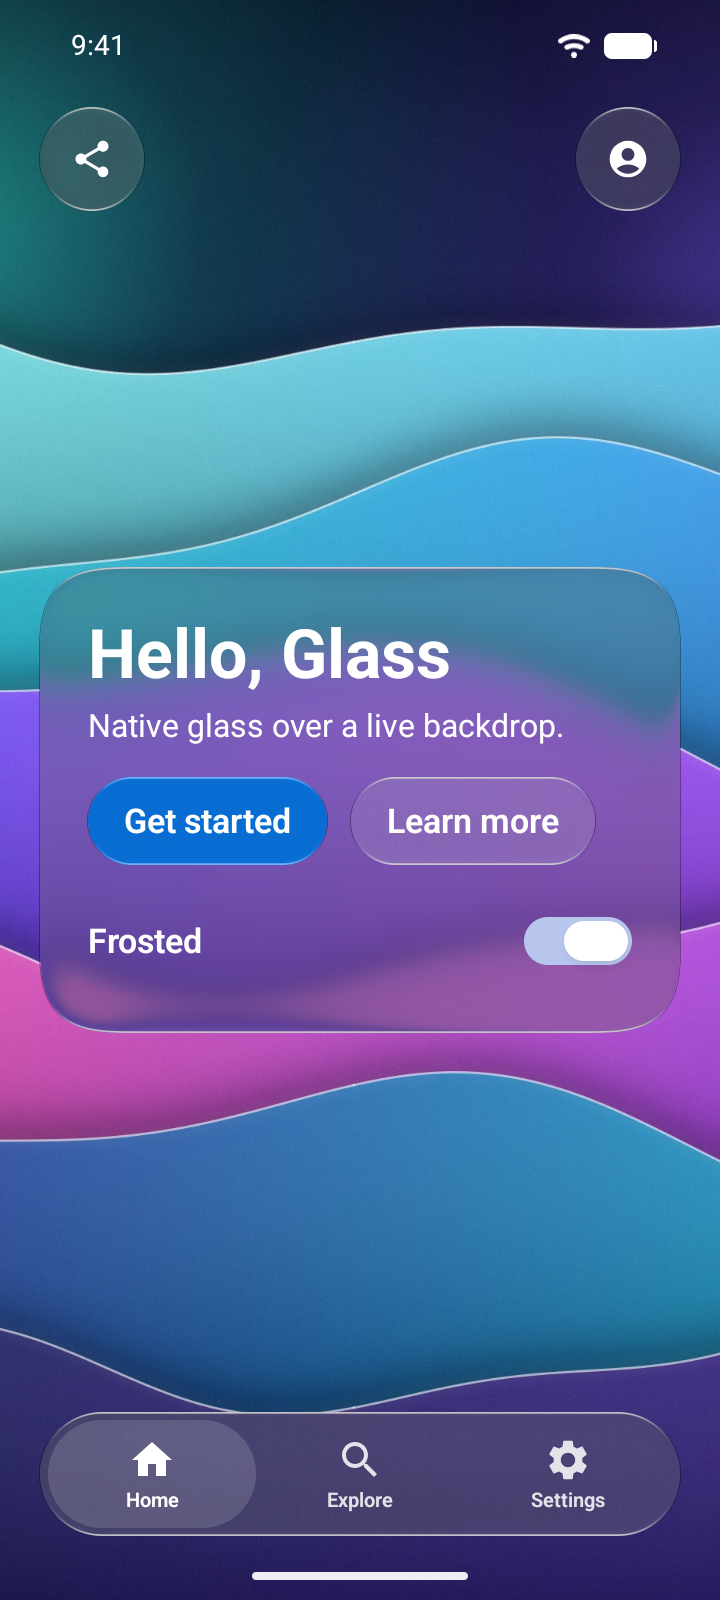
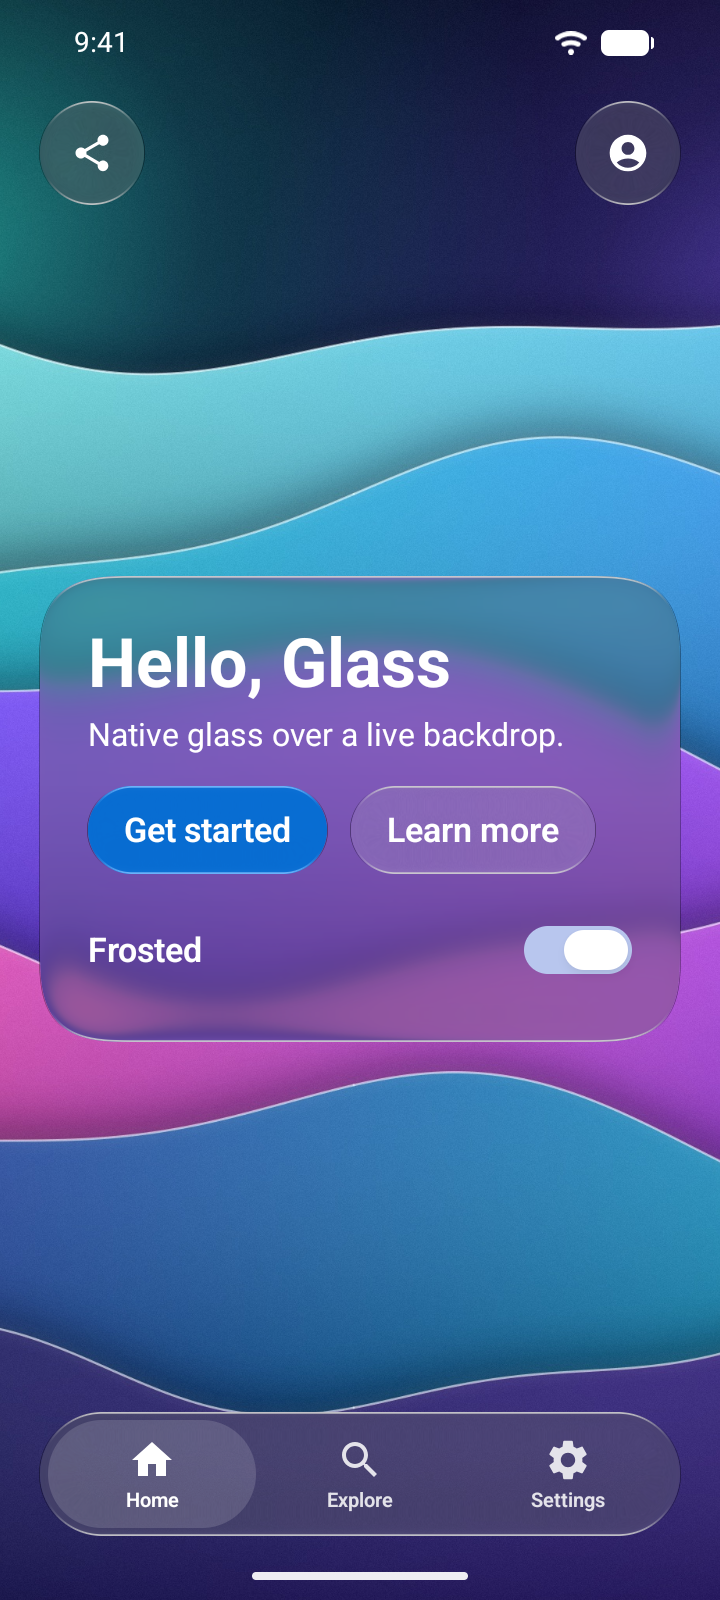
Compose example: the toolbar, the card and the tab bar stack inside the safe area, with the card centered between the bars and scrolling when the space is too short (a phone in landscape, large fonts) instead of running under the tab bar; the README says ANDROID_HOME covers both builds (sdk.dir has 

diff --git a/examples/compose/HelloGlass/app/src/main/kotlin/io/github/rookasrudzianskas/liquidglass/hello/MainActivity.kt b/examples/compose/HelloGlass/app/src/main/kotlin/io/github/rookasrudzianskas/liquidglass/hello/MainActivity.kt
@@ -7,15 +7,17 @@ import androidx.activity.SystemBarStyle
 import androidx.activity.compose.setContent
 import androidx.activity.enableEdgeToEdge
 import androidx.compose.foundation.Image
+import androidx.compose.foundation.rememberScrollState
+import androidx.compose.foundation.verticalScroll
 import androidx.compose.foundation.layout.Arrangement
+import androidx.compose.foundation.layout.Box
 import androidx.compose.foundation.layout.Column
 import androidx.compose.foundation.layout.Row
 import androidx.compose.foundation.layout.WindowInsets
 import androidx.compose.foundation.layout.fillMaxSize
 import androidx.compose.foundation.layout.fillMaxWidth
-import androidx.compose.foundation.layout.navigationBars
 import androidx.compose.foundation.layout.padding
-import androidx.compose.foundation.layout.statusBars
+import androidx.compose.foundation.layout.safeDrawing
 import androidx.compose.foundation.layout.widthIn
 import androidx.compose.foundation.layout.windowInsetsPadding
 import androidx.compose.material.icons.Icons
@@ -95,59 +97,64 @@ fun HelloGlass() {
             )
         }
 
-        // The bars float over the wallpaper's dark top and bottom, so they are dark glass in either theme.
-        GlassToolbar(
-            Modifier
-                .align(Alignment.TopCenter)
-                .windowInsetsPadding(WindowInsets.statusBars)
-                .padding(start = 20.dp, top = 8.dp, end = 20.dp)
-                .fillMaxWidth(),
-            appearance = GlassAppearance.Dark,
-        ) {
-            GlassButton(Icons.Filled.Share, contentDescription = "Share", onClick = { context.startActivity(shareIntent(GUIDE)) })
-            GlassToolbarSpacer()
-            GlassButton(Icons.Filled.AccountCircle, contentDescription = "Profile", onClick = { tab = 2 })
-        }
+        // Toolbar, card and tab bar stack inside the safe area: the card is centered in the space
+        // between the bars and scrolls when that space is too short for it (a phone in landscape,
+        // large font sizes), so it never runs under either bar.
+        Column(Modifier.fillMaxSize().windowInsetsPadding(WindowInsets.safeDrawing)) {
+            // The bars float over the wallpaper's dark top and bottom, so they are dark glass in either theme.
+            GlassToolbar(
+                Modifier
+                    .padding(start = 20.dp, top = 8.dp, end = 20.dp)
+                    .fillMaxWidth(),
+                appearance = GlassAppearance.Dark,
+            ) {
+                GlassButton(Icons.Filled.Share, contentDescription = "Share", onClick = { context.startActivity(shareIntent(GUIDE)) })
+                GlassToolbarSpacer()
+                GlassButton(Icons.Filled.AccountCircle, contentDescription = "Profile", onClick = { tab = 2 })
+            }
 
-        // The card follows the system theme: light glass with dark text, or dark glass with white text.
-        GlassSurface(
-            Modifier
-                .align(Alignment.Center)
-                .padding(horizontal = 20.dp)
-                .widthIn(max = 408.dp)
-                .fillMaxWidth(),
-            shape = GlassShape(32.dp),
-            material = if (frosted) GlassMaterial.Regular else GlassMaterial.Clear,
-        ) {
-            Column(Modifier.padding(24.dp), verticalArrangement = Arrangement.spacedBy(16.dp)) {
-                Column(verticalArrangement = Arrangement.spacedBy(6.dp)) {
-                    GlassText("Hello, Glass", Modifier.semantics { heading() }, style = TitleStyle)
-                    GlassText("Native glass over a live backdrop.", style = SubtitleStyle, maxLines = 1)
-                }
-                Row(horizontalArrangement = Arrangement.spacedBy(12.dp)) {
-                    GlassButton("Get started", onClick = { tab = 1 }, tint = Color(0xFF0A84FF))
-                    GlassButton("Learn more", onClick = { uriHandler.openUri(GUIDE) })
-                }
-                Row(verticalAlignment = Alignment.CenterVertically) {
-                    // TalkBack reads the switch's own label, so the visible one is hidden from it.
-                    GlassText("Frosted", Modifier.weight(1f).clearAndSetSemantics {})
-                    GlassSwitch(checked = frosted, onCheckedChange = { frosted = it }, label = "Frosted")
+            Box(Modifier.weight(1f).fillMaxWidth(), contentAlignment = Alignment.Center) {
+                Box(Modifier.verticalScroll(rememberScrollState())) {
+                    // The card follows the system theme: light glass with dark text, or dark glass with white text.
+                    GlassSurface(
+                        Modifier
+                            .padding(horizontal = 20.dp)
+                            .widthIn(max = 408.dp)
+                            .fillMaxWidth(),
+                        shape = GlassShape(32.dp),
+                        material = if (frosted) GlassMaterial.Regular else GlassMaterial.Clear,
+                    ) {
+                        Column(Modifier.padding(24.dp), verticalArrangement = Arrangement.spacedBy(16.dp)) {
+                            Column(verticalArrangement = Arrangement.spacedBy(6.dp)) {
+                                GlassText("Hello, Glass", Modifier.semantics { heading() }, style = TitleStyle)
+                                GlassText("Native glass over a live backdrop.", style = SubtitleStyle, maxLines = 1)
+                            }
+                            Row(horizontalArrangement = Arrangement.spacedBy(12.dp)) {
+                                GlassButton("Get started", onClick = { tab = 1 }, tint = Color(0xFF0A84FF))
+                                GlassButton("Learn more", onClick = { uriHandler.openUri(GUIDE) })
+                            }
+                            Row(verticalAlignment = Alignment.CenterVertically) {
+                                // TalkBack reads the switch's own label, so the visible one is hidden from it.
+                                GlassText("Frosted", Modifier.weight(1f).clearAndSetSemantics {})
+                                GlassSwitch(checked = frosted, onCheckedChange = { frosted = it }, label = "Frosted")
+                            }
+                        }
+                    }
                 }
             }
-        }
 
-        GlassTabBar(
-            tabs = Tabs,
-            selectedIndex = tab,
-            onSelectedIndexChange = { tab = it },
-            modifier = Modifier
-                .align(Alignment.BottomCenter)
-                .windowInsetsPadding(WindowInsets.navigationBars)
-                .padding(start = 20.dp, end = 20.dp, bottom = 8.dp)
-                .widthIn(max = 400.dp)
-                .fillMaxWidth(),
-            appearance = GlassAppearance.Dark,
-        )
+            GlassTabBar(
+                tabs = Tabs,
+                selectedIndex = tab,
+                onSelectedIndexChange = { tab = it },
+                modifier = Modifier
+                    .align(Alignment.CenterHorizontally)
+                    .padding(start = 20.dp, end = 20.dp, bottom = 8.dp)
+                    .widthIn(max = 400.dp)
+                    .fillMaxWidth(),
+                appearance = GlassAppearance.Dark,
+            )
+        }
     }
 }
 

diff --git a/examples/compose/HelloGlass/README.md b/examples/compose/HelloGlass/README.md
@@ -13,13 +13,14 @@ The smallest complete Liquid Glass app for Android: one screen, one Kotlin file 
 - **A Regular glass card** (`GlassSurface`, continuous 32 dp corners) with the title "Hello, Glass", a one-line subtitle, a prominent tinted button "Get started" and a plain glass button "Learn more".
 - **A "Frosted" switch** (`GlassSwitch`) that turns the card from Regular (frosted) to Clear glass and back.
 - **A toolbar** (`GlassToolbar`) with two icon buttons, Share and Profile, and **a floating tab bar** (`GlassTabBar`) with Home, Explore and Settings. "Get started" selects Explore and Profile selects Settings.
+- **A layout that fits.** The toolbar, the card and the tab bar stack inside the safe area (status and navigation bars, display cutout). The card is centered in the space between the bars, and when that space is too short for it (a phone in landscape, a large font size) it scrolls instead of running under the tab bar.
 - **Light and dark.** The card follows the system theme. The bars sit over the wallpaper's dark top and bottom, so they are dark glass in both themes and the status bar icons stay light.
 - **Accessibility.** The title is a heading, the icon buttons have content descriptions and the switch carries its own label ("Frosted"), so TalkBack reads each control once. Glass refraction never touches the text: labels draw above the glass.
 - **Default refraction.** Nothing sets `refraction`, so every surface follows its own size, `min(60 dp, 0.75 × the shorter side)`: the card gets the full 60 dp, the 44 dp buttons 33 dp, the 52 dp toolbar clusters 39 dp and the 62 dp tab bar 46.5 dp.
 
 ## Run it
 
-Needs JDK 17 and the Android SDK (`ANDROID_HOME`, or `sdk.dir` in `local.properties`). The glass itself needs Android 13 (API 33) or newer; Android 7 to 12 draw the library's fallback material.
+Needs JDK 17 and the Android SDK. Set `ANDROID_HOME`, which covers both builds: inside this repository the example includes the library's own Gradle build from [`platforms/android`](../../../platforms/android), and that build looks for the SDK on its own. With `sdk.dir` instead, put it in both `examples/compose/HelloGlass/local.properties` and `platforms/android/local.properties`. The glass itself needs Android 13 (API 33) or newer; Android 7 to 12 draw the library's fallback material.
 
 ```sh
 cd examples/compose/HelloGlass
@@ -71,5 +72,7 @@ dependencyResolutionManagement {
     }
 }
 ```
+
+The repository serves the build of the `1.0.0` release. A build that resolved `1.0.0` from it before the release got a pre-release copy (it lacks `GlassSwitch(label = …)`, which this app uses, and the size-based refraction) and Gradle keeps that copy in its cache: run `./gradlew --refresh-dependencies :app:assembleDebug` once to fetch the release.
 
 Once the `1.0.0` release tag is on GitHub, JitPack works too: add `maven("https://jitpack.io")` and depend on `com.github.rookasrudzianskas:liquid-glass-mac-windows-ios-android:1.0.0`. The [Android guide](../../../docs/android.md#install) has every install route, including the plain AAR.
